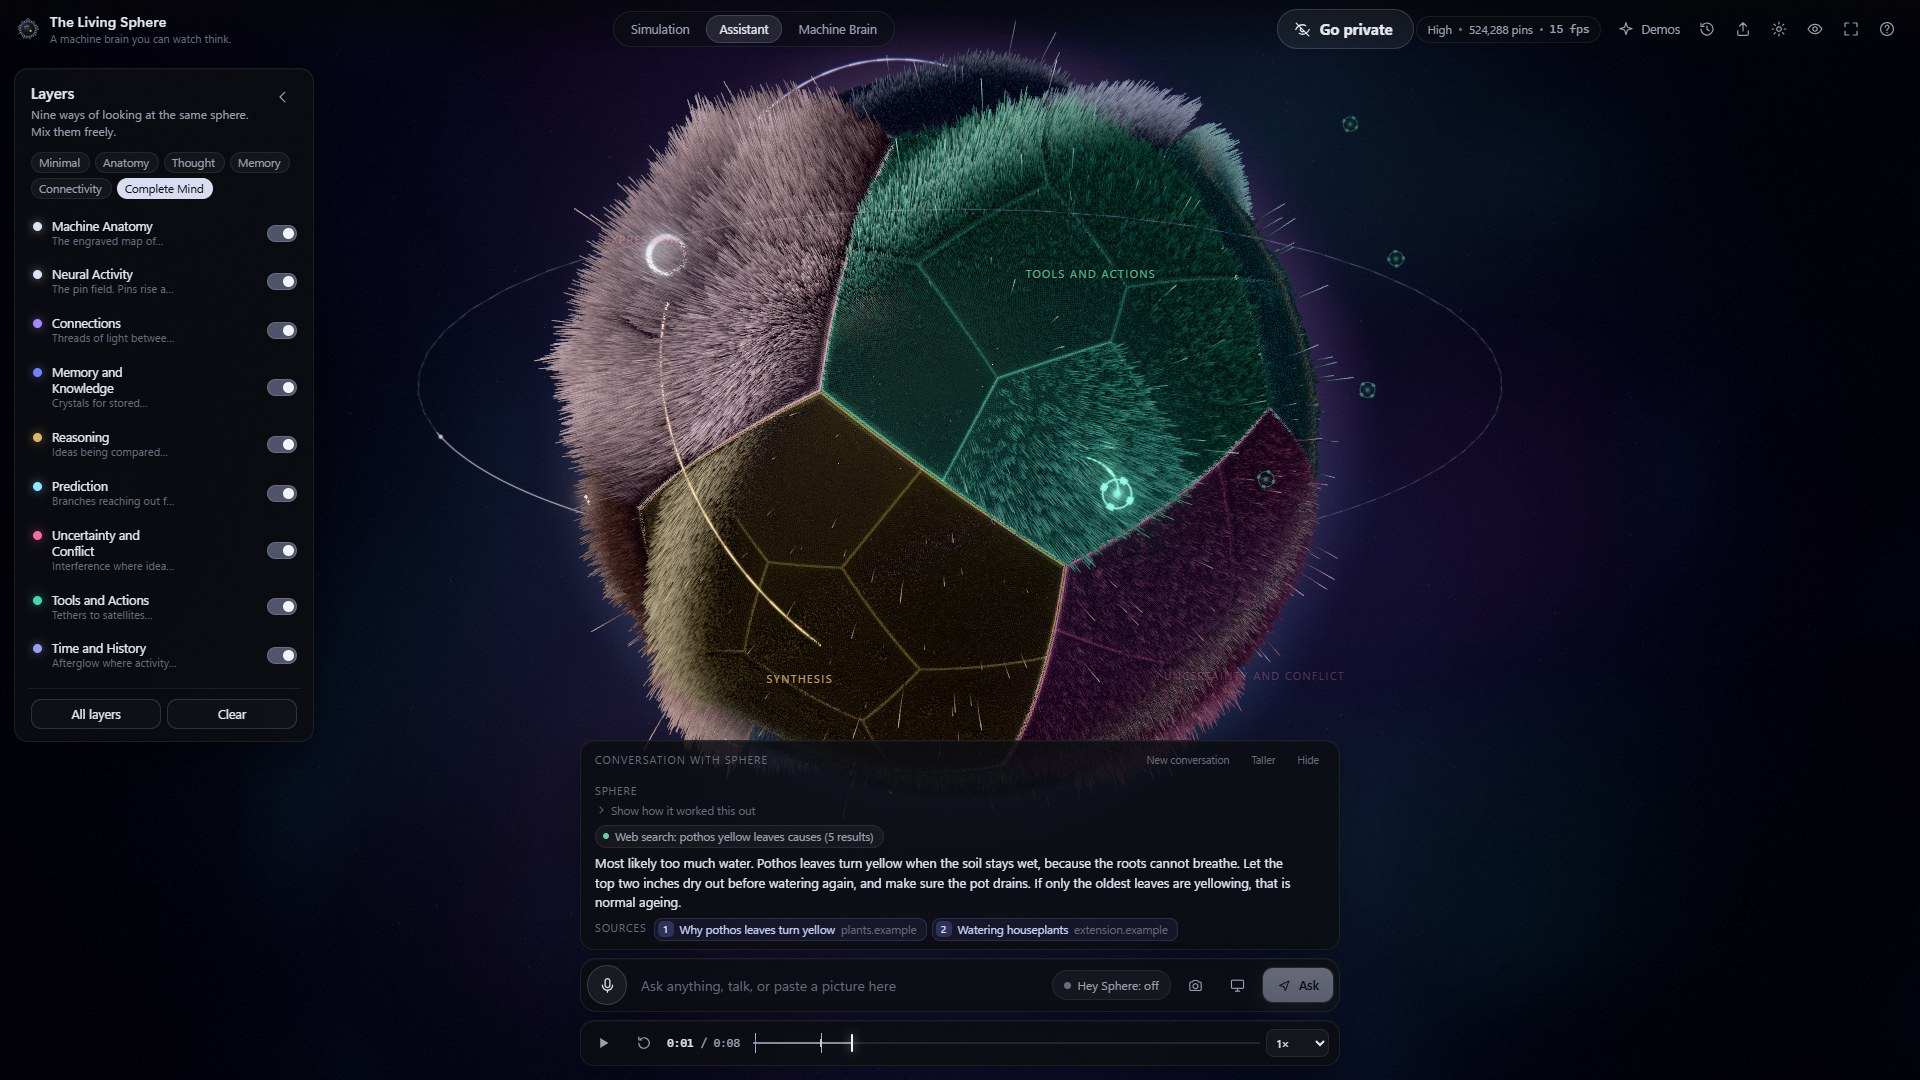
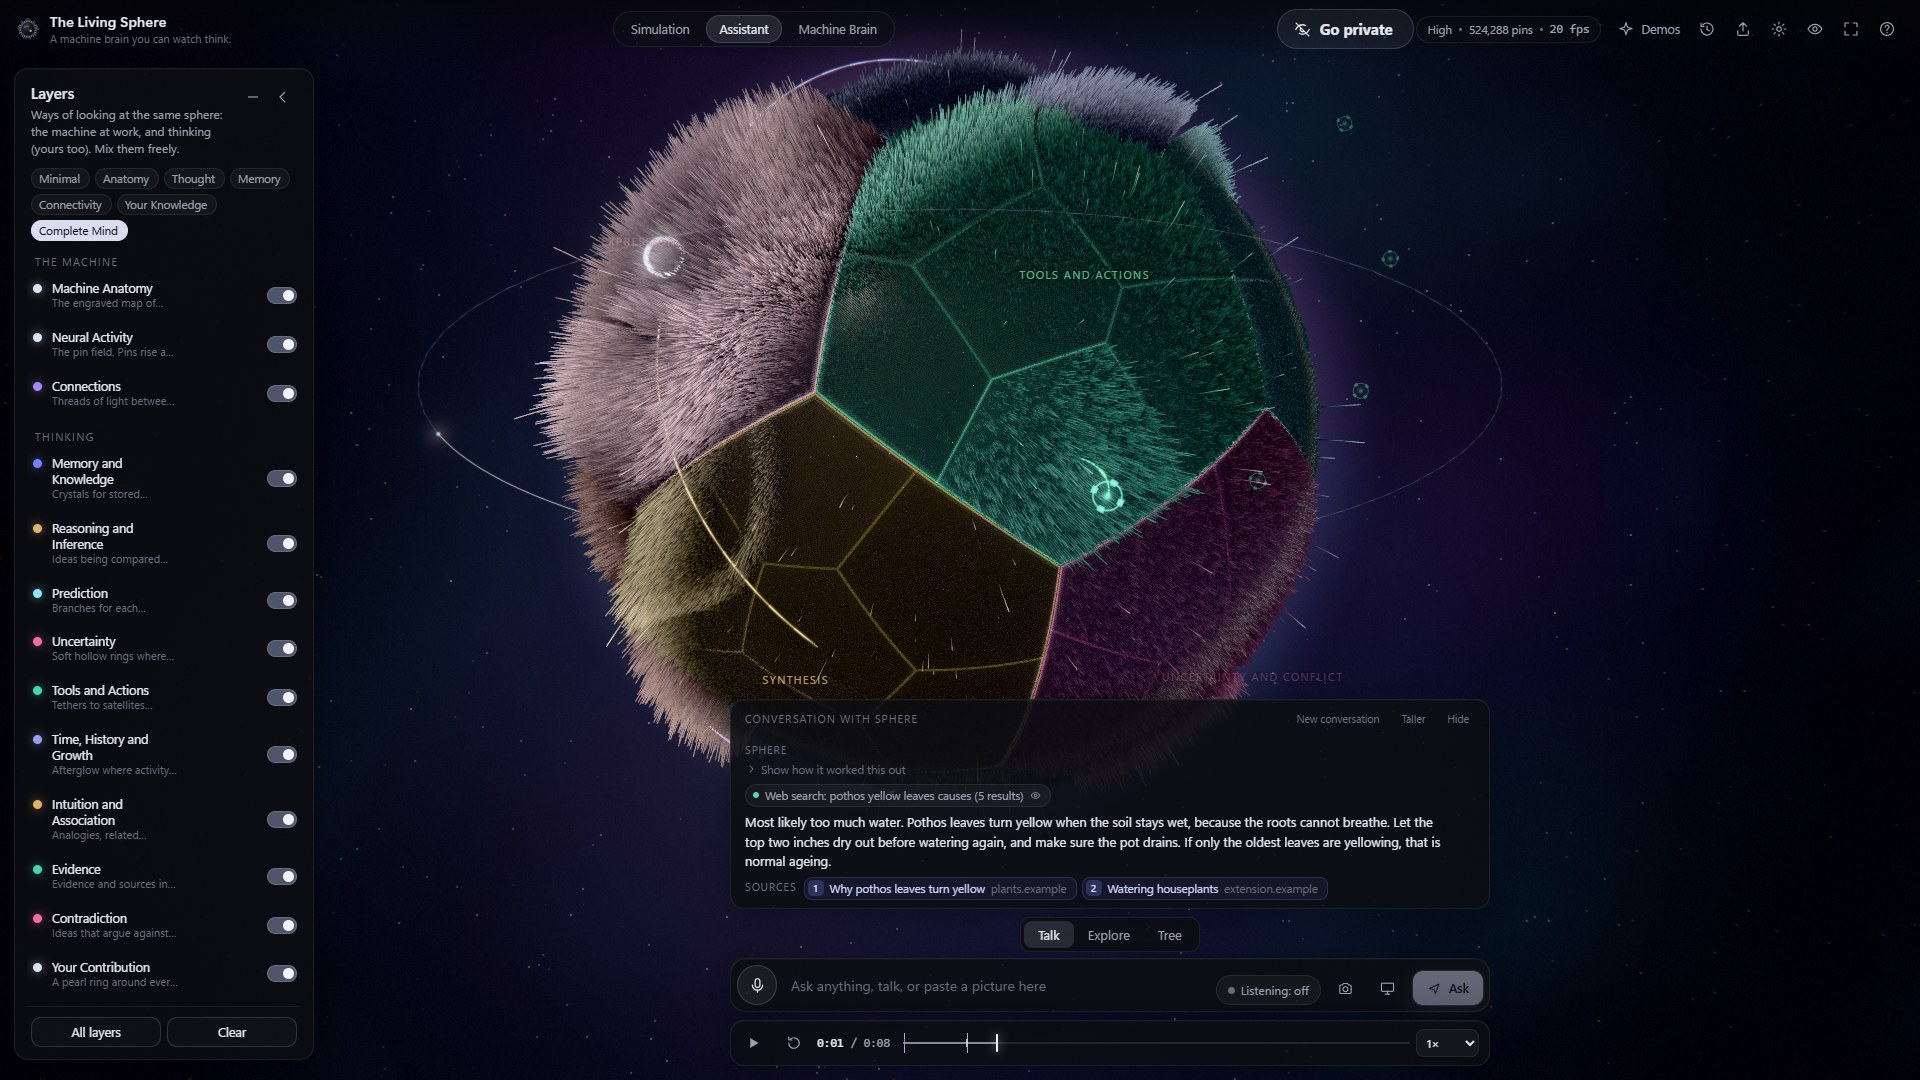
Hands-free takes every word: no name or camera needed, one message per pause, Private for privacy (new conversation picture)

diff --git a/README.md b/README.md
@@ -21,7 +21,7 @@ The answers come from Claude. Each step it takes shows twice: on the sphere as i
 - **Shows how it worked something out.** Claude's own short summary of its thinking sits folded under each answer.
 - **Keeps track for you.** Timers, reminders at a clock time, and notes it remembers between conversations.
 - **Drives the sphere.** "Show me memory", "play the signature demo", "zoom in", by voice or by typing.
-- **Hands-free if you want it.** Give it a name and leave it running: say the name once, and while the camera sees you, you just keep talking, with no name needed. Say "that's all" and it goes back to waiting, with a soft tone; walk away and it goes quiet by itself. Or leave it open whenever you're at your desk: no name at all, and one soft ding when you sit down, never while you stay.
+- **Hands-free, and it takes every word.** Leave it listening and just talk: everything you say goes to it, with no name and no camera needed, as one message each time you pause, word for word. A pause in the middle of a sentence never cuts it short, and words caught as the speech service restarts are kept. Press Private for a phone call, or say "go to sleep" and its name wakes it. If you would rather it wait for its name, one switch in Settings does that.
 - **Talk over it and it stops.** It listens while it speaks, tells your voice from its own coming back through the speakers, and stops the moment you start talking. "Wait" quiets it, "stop" stops what it is doing.
 - **Sees you while you talk, if you allow it.** It can use two cameras, one straight on and one from the side; a small preview shows each one whenever it is on, and each thing you say goes with fresh pictures from both.
 - **A big Private button.** One press stops all listening and looking until you switch it back, even after a restart.
